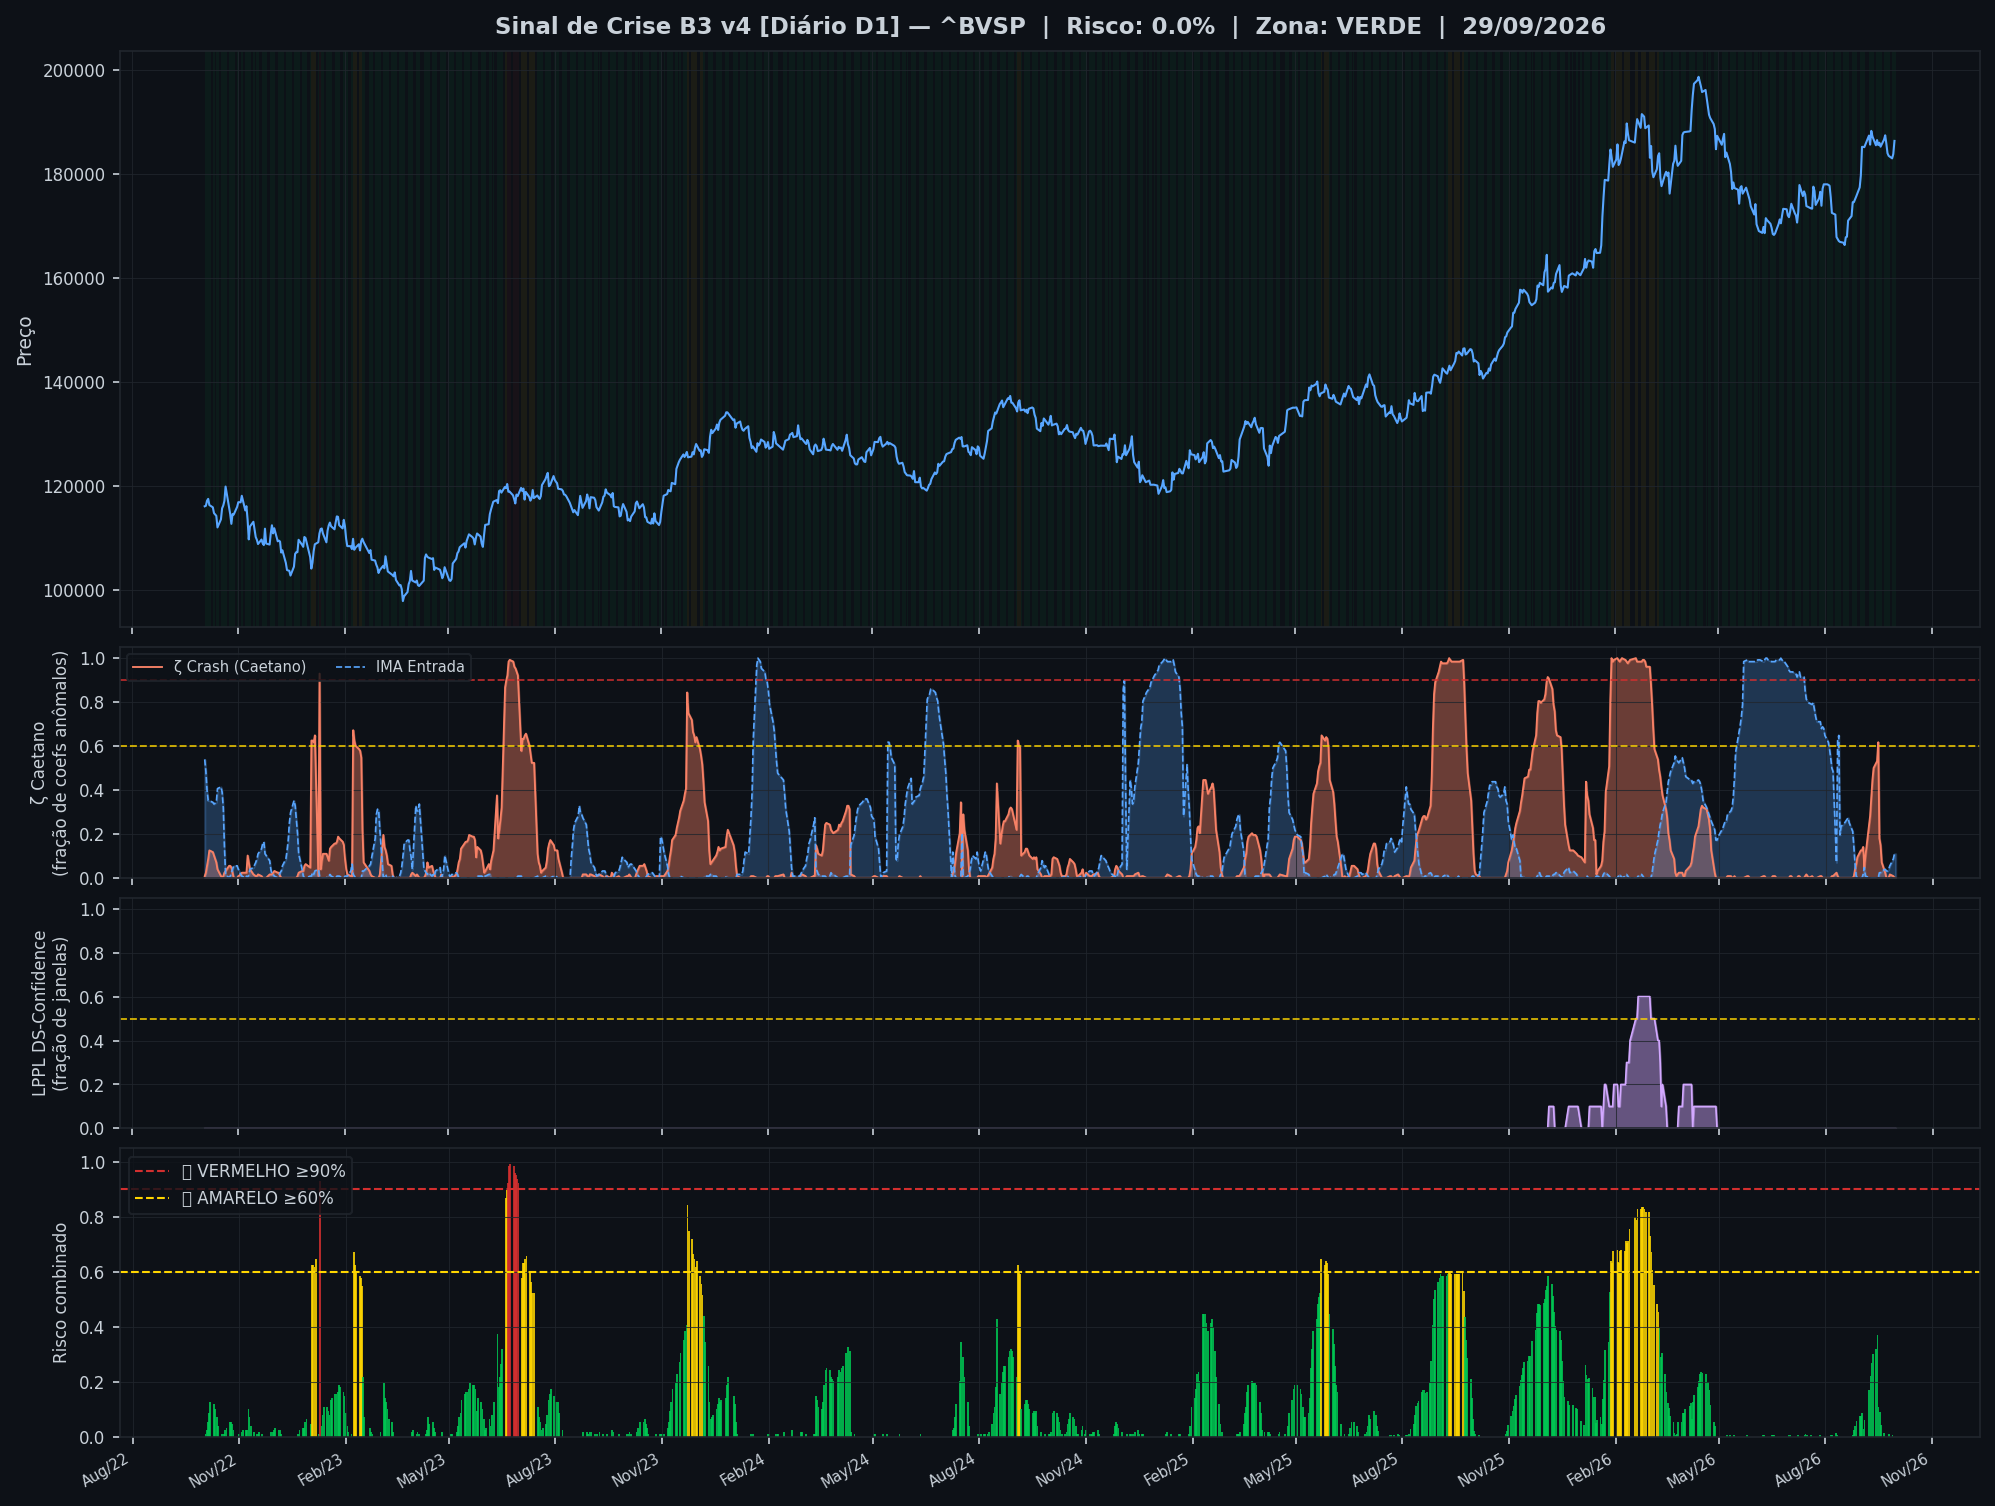
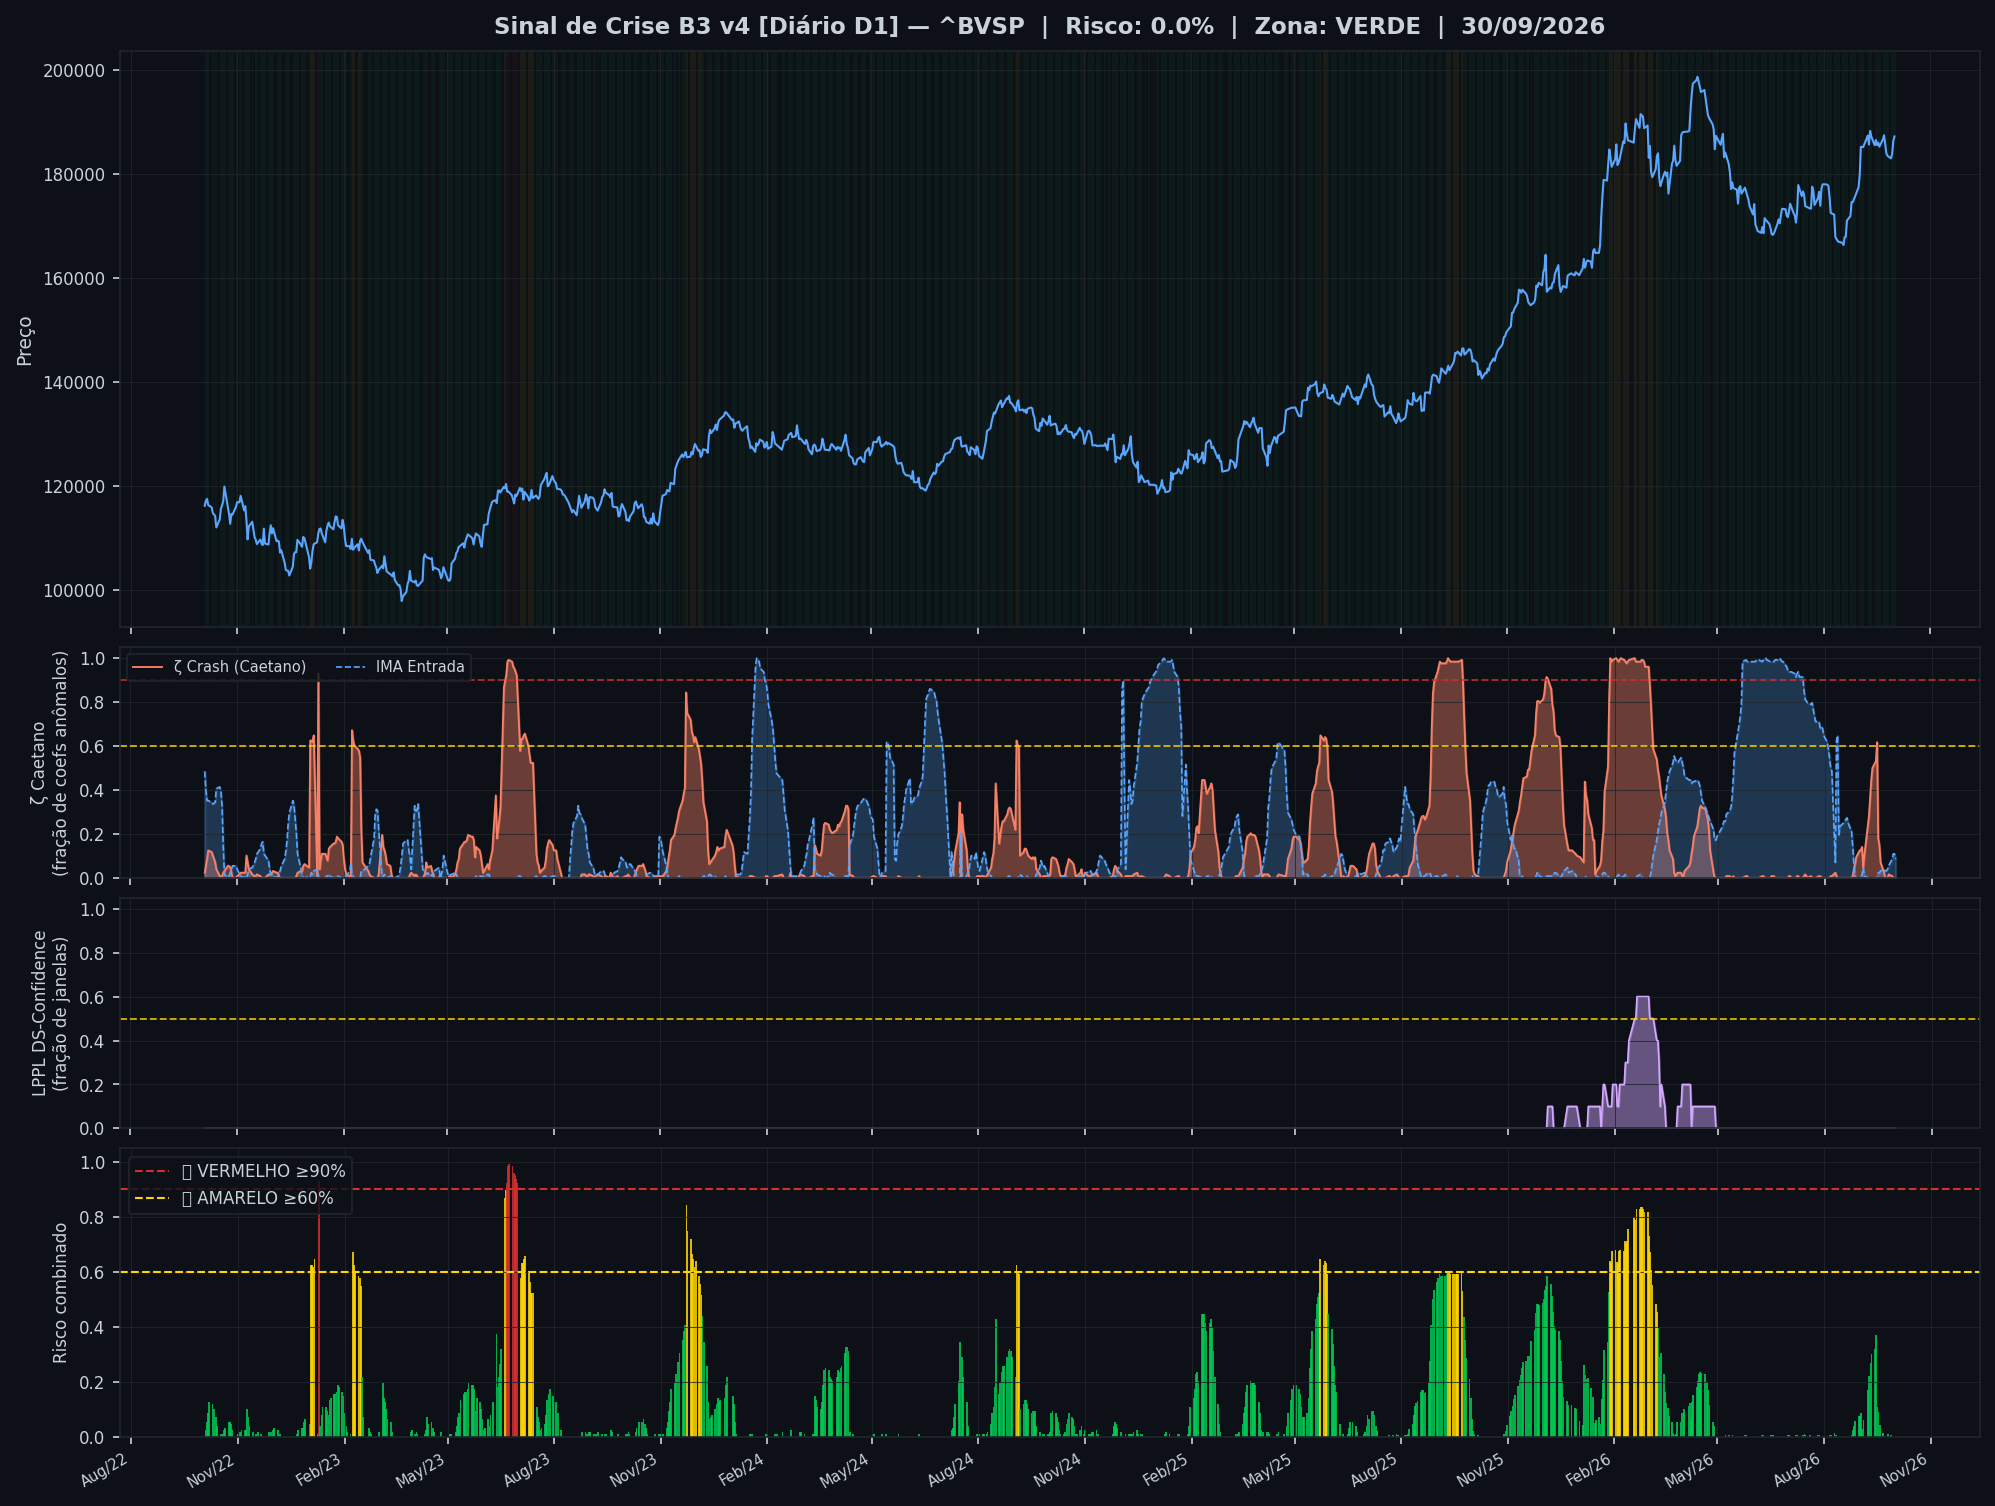
🤖 Auto: Sinal 01/10/2026 19:00

diff --git a/content/diario/2026-09-30.md b/content/diario/2026-09-30.md
@@ -1,0 +1,103 @@
+---
+title: "🟢 Diário 30/09/2026 — VERDE"
+date: 2026-10-01
+tags: [diario]
+---
+
+> [!success] 🟢 **VERDE** — Risco 0% · ＝ +0 p.p. vs leitura anterior
+> `░░░░░░░░░░░░░░░░░░░░`
+> Mercado sem sinais relevantes de estresse.
+
+
+| Indicador | Valor |
+|---|---|
+| 🔴 ζ Crash — severidade da queda em curso | **0%** |
+| 🔵 ζ Entrada — estrutura de fundo | 9% |
+| 🫧 LPPL DS-Confidence | 0% |
+| 📊 Ibovespa | 187.197 pts |
+
+![Gráfico do sinal](../graficos/sinal_diario.png)
+
+## Últimos 30 pregões
+
+| Data | Zona | Risco | IMA Crash | Entrada | LPPL |
+|---|---|---|---|---|---|
+| 2026-09-30 21:00 | 🟢 VERDE | **0%** | 0% | 9% | 0% |
+| 2026-09-29 21:00 | 🟢 VERDE | **0%** | 0% | 11% | 0% |
+| 2026-09-28 21:00 | 🟢 VERDE | **0%** | 0% | 11% | 0% |
+| 2026-09-27 21:00 | 🟢 VERDE | **0%** | 1% | 9% | 0% |
+| 2026-09-24 21:00 | 🟢 VERDE | **1%** | 2% | 5% | 0% |
+| 2026-09-23 21:00 | 🟢 VERDE | **0%** | 0% | 4% | 0% |
+| 2026-09-22 21:00 | 🟢 VERDE | **0%** | 0% | 3% | 0% |
+| 2026-09-21 21:00 | 🟢 VERDE | **0%** | 0% | 3% | 0% |
+| 2026-09-20 21:00 | 🟢 VERDE | **1%** | 2% | 4% | 0% |
+| 2026-09-17 21:00 | 🟢 VERDE | **4%** | 7% | 3% | 0% |
+| 2026-09-16 21:00 | 🟢 VERDE | **9%** | 15% | 2% | 0% |
+| 2026-09-15 21:00 | 🟢 VERDE | **11%** | 18% | 2% | 0% |
+| 2026-09-14 21:00 | 🟢 VERDE | **37%** | 62% | 0% | 0% |
+| 2026-09-13 21:00 | 🟢 VERDE | **32%** | 53% | 0% | 0% |
+| 2026-09-10 21:00 | 🟢 VERDE | **30%** | 50% | 0% | 0% |
+| 2026-09-09 21:00 | 🟢 VERDE | **27%** | 45% | 0% | 0% |
+| 2026-09-08 21:00 | 🟢 VERDE | **22%** | 37% | 0% | 0% |
+| 2026-09-07 21:00 | 🟢 VERDE | **17%** | 28% | 0% | 0% |
+| 2026-09-03 21:00 | 🟢 VERDE | **6%** | 10% | 1% | 0% |
+| 2026-09-02 21:00 | 🟢 VERDE | **3%** | 5% | 5% | 0% |
+| 2026-09-01 21:00 | 🟢 VERDE | **8%** | 14% | 2% | 0% |
+| 2026-08-31 21:00 | 🟢 VERDE | **8%** | 12% | 0% | 0% |
+| 2026-08-30 21:00 | 🟢 VERDE | **8%** | 12% | 0% | 0% |
+| 2026-08-27 21:00 | 🟢 VERDE | **6%** | 9% | 0% | 0% |
+| 2026-08-26 21:00 | 🟢 VERDE | **4%** | 6% | 1% | 0% |
+| 2026-08-25 21:00 | 🟢 VERDE | **2%** | 4% | 6% | 0% |
+| 2026-08-24 21:00 | 🟢 VERDE | **0%** | 1% | 14% | 0% |
+| 2026-08-23 21:00 | 🟢 VERDE | **0%** | 0% | 21% | 0% |
+| 2026-08-20 21:00 | 🟢 VERDE | **0%** | 0% | 25% | 0% |
+| 2026-08-19 21:00 | 🟢 VERDE | **0%** | 0% | 27% | 0% |
+
+## Monitor Multi-Ativo
+
+**0% dos ativos em tensão** (0🔴 0🟡) — quanto mais ativos disparam juntos, mais confiável o sinal.
+
+| Zona | Ativo | Setor | IMA Crash | IMA Entrada |
+|---|---|---|---|---|
+| 🟢 | **USD/BRL** | Câmbio | 13.3% | 0.0% |
+| 🟢 | **VALE** | Mineração | 10.2% | 0.0% |
+| 🟢 | **ITAUUNIBANCO** | Financeiro | 10.2% | 0.0% |
+| 🟢 | **PETROBRAS** | Petróleo | 10.2% | 0.0% |
+| 🟢 | **PETROBRAS** | Petróleo | 10.2% | 0.0% |
+| 🟢 | **AXIA ENERGIA** | Energia | 10.2% | 0.0% |
+| 🟢 | **SABESP** | Saneamento | 10.2% | 0.0% |
+| 🟢 | **BRADESCO** | Financeiro | 10.2% | 0.0% |
+| 🟢 | **B3** | Financeiro | 10.2% | 0.0% |
+| 🟢 | **ITAUSA** | Financeiro | 10.2% | 0.0% |
+| 🟢 | **BTGP BANCO** | Financeiro | 10.2% | 0.0% |
+| 🟢 | **WEG** | Industrial | 10.2% | 0.0% |
+| 🟢 | **EMBRAER** | Outros | 10.2% | 0.0% |
+| 🟢 | **BRASIL** | Financeiro | 10.2% | 0.0% |
+| 🟢 | **AMBEV S/A** | Consumo | 10.2% | 0.0% |
+| 🟢 | **ENEVA** | Energia | 10.2% | 0.0% |
+| 🟢 | **EQUATORIAL** | Energia | 10.2% | 0.0% |
+| 🟢 | **COPEL** | Energia | 10.2% | 0.0% |
+| 🟢 | **PRIO** | Petróleo | 10.2% | 0.0% |
+| 🟢 | **VIBRA** | Energia | 10.2% | 0.0% |
+| 🟢 | **ULTRAPAR** | Outros | 10.2% | 0.0% |
+| 🟢 | **LOCALIZA** | Aluguel | 10.2% | 0.0% |
+| 🟢 | **REDE D OR** | Saúde | 10.2% | 0.0% |
+| 🟢 | **GERDAU** | Siderurgia | 10.2% | 0.0% |
+| 🟢 | **SUZANO S.A.** | Papel/Celulose | 10.2% | 0.0% |
+
+![Monitor multi-ativo](../graficos/multi_diario.png)
+
+*Página atualizada em 01/10/2026 19:00 BRT (leitura da barra de 2026-09-30 BRT).*
+
+> [!info]- Como interpretar (clique para expandir)
+> - **ζ Crash**: fração dos coeficientes wavelet acima do corte (Caetano & Yoneyama 2009). Escala absoluta: ζ=0,90 = 90% dos coeficientes anômalos — historicamente, quedas com ζ≥0,90 foram mais fundas e mais longas. **Mede a severidade do movimento em curso, não prevê o início da queda.**
+> - **ζ Entrada**: coeficientes negativos além do corte — estrutura de fundo, possível região de compra.
+> - **LPPL DS-Confidence**: fração de janelas (60–504 pregões) em que o modelo de bolha de Sornette produz um ajuste válido. 30% já é relevante; acima de 50% é forte evidência de estrutura de bolha.
+> - **Zonas com histerese**: o sinal só muda de zona ao cruzar o limiar de entrada, e só volta ao cruzar o de saída — evita flip-flop diário.
+
+
+---
+*Sinal de Crise B3 v4 · IMA Wavelet ([Caetano & Yoneyama, Physica-A 2007](https://doi.org/10.1016/j.physa.2007.03.054)) + LPPL DS-Confidence (Sornette, ETH-Zurich) · [Metodologia](metodologia) · [Histórico](historico)*
+
+> [!quote]- Aviso
+> Estudo acadêmico. Não constitui recomendação de investimento.

diff --git a/content/index.md b/content/index.md
@@ -8,19 +8,19 @@ tags: [home]
 
 Monitoramento diário e intraday do Ibovespa — **IMA Wavelet** (Prof. Marco Antonio Leonel Caetano, ITA/INSPER) + **LPPL DS-Confidence** (Prof. Didier Sornette, ETH-Zurich).
 
-*Última atualização: 01/10/2026 17:30 BRT · ^BVSP · Intraday 15min · v4*
+*Última atualização: 01/10/2026 19:00 BRT · ^BVSP · Diário D1 · v4*
 
-> [!success] 🟢 **VERDE** — Risco 23% · ▲ +2 p.p. vs leitura anterior
-> `█████░░░░░░░░░░░░░░░`
+> [!success] 🟢 **VERDE** — Risco 0% · ＝ +0 p.p. vs leitura anterior
+> `░░░░░░░░░░░░░░░░░░░░`
 > Mercado sem sinais relevantes de estresse.
 
 
 | Indicador | Valor |
 |---|---|
-| 🔴 ζ Crash — severidade da queda em curso | **23%** |
-| 🔵 ζ Entrada — estrutura de fundo | 0% |
+| 🔴 ζ Crash — severidade da queda em curso | **0%** |
+| 🔵 ζ Entrada — estrutura de fundo | 9% |
 | 🫧 LPPL DS-Confidence | 0% |
-| 📊 Ibovespa | 187.243 pts |
+| 📊 Ibovespa | 187.197 pts |
 
 **Multi-ativo:** 0% em tensão (0🔴 0🟡 de 25 ativos)
 
@@ -32,8 +32,13 @@ Monitoramento diário e intraday do Ibovespa — **IMA Wavelet** (Prof. Marco An
 
 | Data | Zona | Risco | IMA | LPPL |
 |---|---|---|---|---|
-| [01 Oct 2026](diario/2026-10-01) | 🟢 VERDE | **23%** | 23% | 0% |
-| [30 Sep 2026](diario/2026-09-30) | 🔴 VERMELHO | **91%** | 91% | 0% |
+| [30 Sep 2026](diario/2026-09-30) | 🟢 VERDE | **0%** | 0% | 0% |
+| [29 Sep 2026](diario/2026-09-29) | 🟢 VERDE | **0%** | 0% | 0% |
+| [28 Sep 2026](diario/2026-09-28) | 🟢 VERDE | **0%** | 0% | 0% |
+| [27 Sep 2026](diario/2026-09-27) | 🟢 VERDE | **0%** | 1% | 0% |
+| [24 Sep 2026](diario/2026-09-24) | 🟢 VERDE | **1%** | 2% | 0% |
+| [23 Sep 2026](diario/2026-09-23) | 🟢 VERDE | **0%** | 0% | 0% |
+| [22 Sep 2026](diario/2026-09-22) | 🟢 VERDE | **0%** | 0% | 0% |
 
 ## Navegação
 

diff --git a/content/historico.md b/content/historico.md
@@ -7,6 +7,7 @@ tags: [historico]
 
 | Data | Modo | Zona | Risco | IMA | LPPL |
 |---|---|---|---|---|---|
+| 2026-09-30 | diario | 🟢 VERDE | 0% | 0% | 0% |
 | 2026-10-01 16:45 | intraday | 🟢 VERDE | 23% | 23% | 0% |
 | 2026-10-01 16:30 | intraday | 🟢 VERDE | 22% | 22% | 0% |
 | 2026-10-01 16:15 | intraday | 🟢 VERDE | 20% | 20% | 0% |
